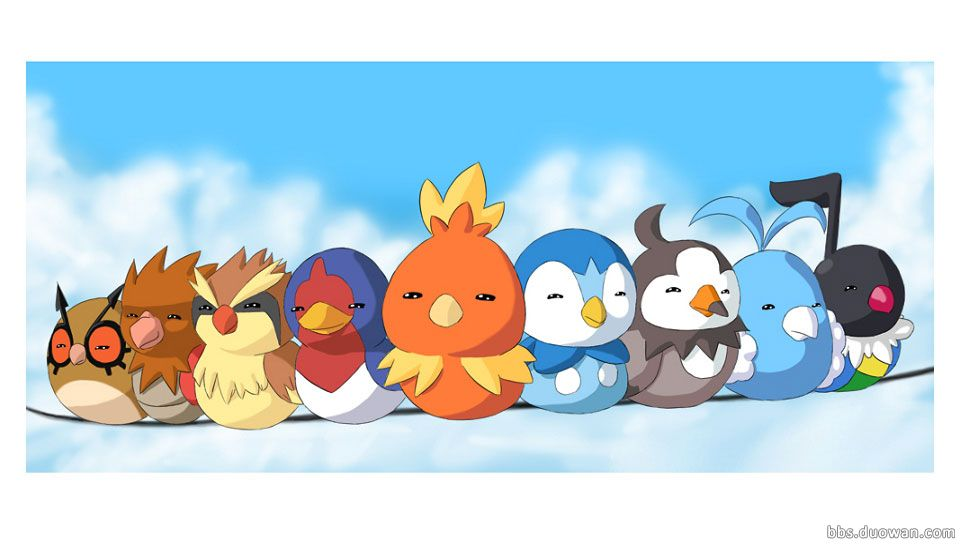
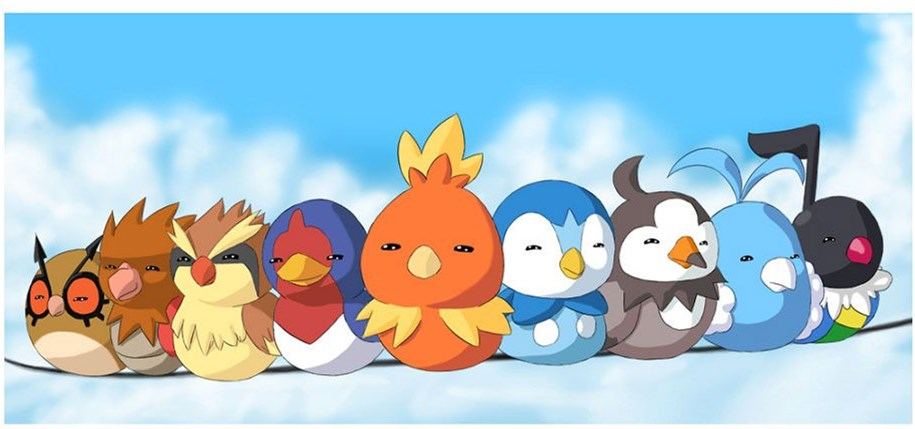
修改封面图（去掉水印）

diff --git a/README.md b/README.md
@@ -8,7 +8,7 @@
 
 | 时间       | 描述                                                |
 | ---------- | --------------------------------------------------- |
-| 2018-05-30 | 完成李宏毅老师机器学习课程 **Ensemble Method** 学习 |
+| 2018-xx-xx | 完成李宏毅老师机器学习课程 **Ensemble Method** 学习 |
 |            |                                                     |
 |            |                                                     |
 |            |                                                     |
